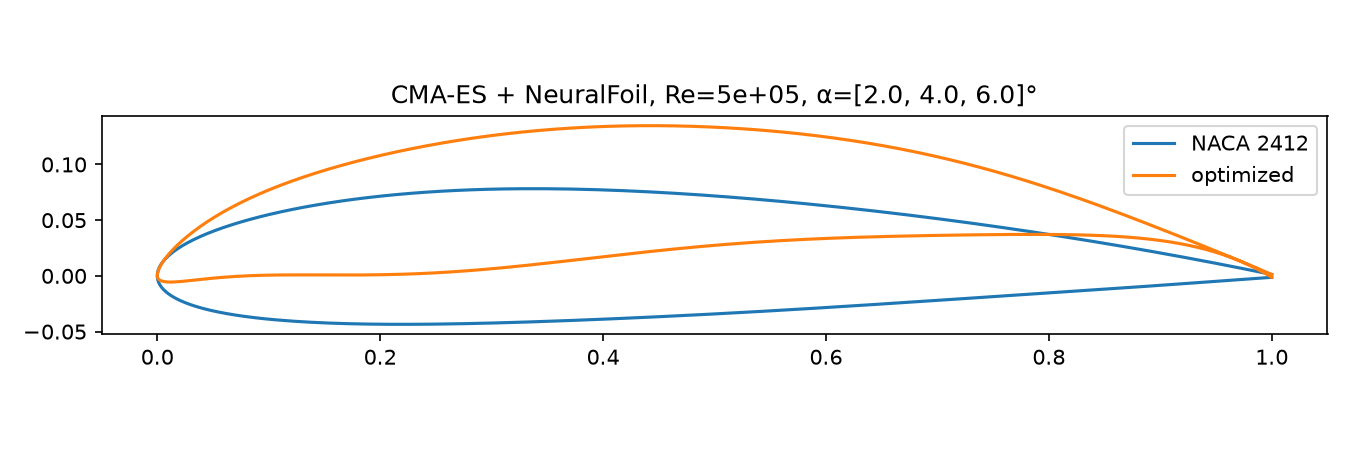
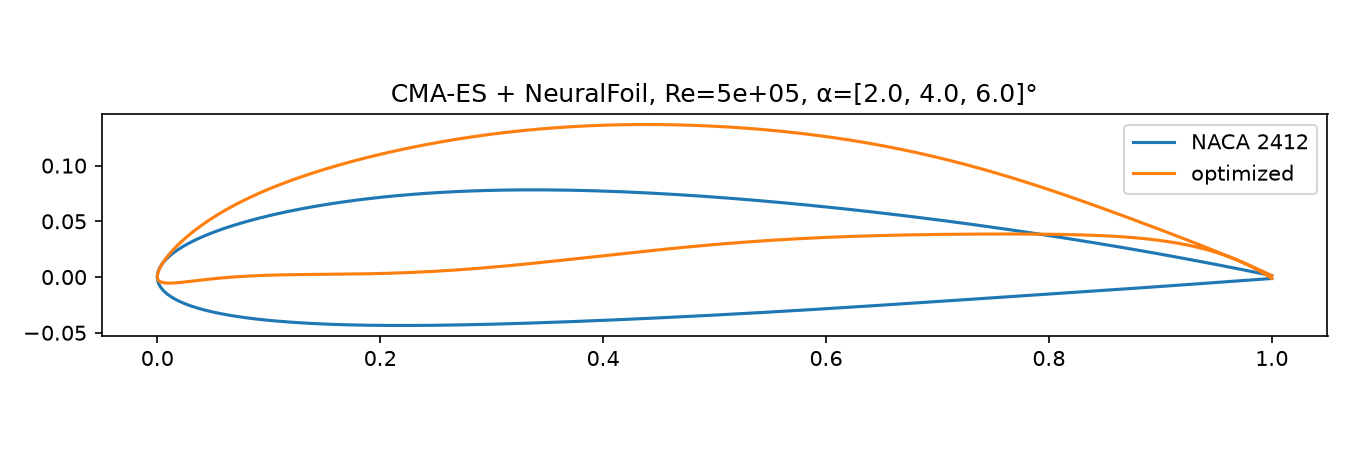
Updated README

diff --git a/README.md b/README.md
@@ -9,7 +9,7 @@ Airfoil shape optimization with CMA-ES and the [NeuralFoil](https://github.com/p
 - **Shape:** 8 upper and 8 lower Kulfan (CST) weights, plus a leading-edge weight (17 parameters), starting from a NACA 2412
 - **Objective:** maximize mean L/D at α = 2°, 4°, 6° and Re = 5·10⁵
 - **Constraints (penalties):** max thickness ≥ 12%, surfaces must not cross, NeuralFoil confidence ≥ 0.9
-- **Optimizer:** CMA-ES (`cma`), with each generation scored in one batched NeuralFoil call
+- **Optimizer:** CMA-ES (`cma`) or Differential Evolution (`scipy`), with each generation scored in one batched NeuralFoil call
 
 ## Result
 
@@ -24,7 +24,8 @@ Airfoil shape optimization with CMA-ES and the [NeuralFoil](https://github.com/p
 
 ```bash
 uv sync
-uv run python src/cma_example.py
+uv run python src/cma_example.py                    # CMA-ES
+uv run python src/cma_example.py --optimizer de     # Differential Evolution
 ```
 
-The run takes a few seconds and writes `optimized_airfoil.png`.
+The run takes a few seconds and writes `optimized_airfoil.png` (CMA-ES) or `optimized_airfoil_de.png` (DE).
